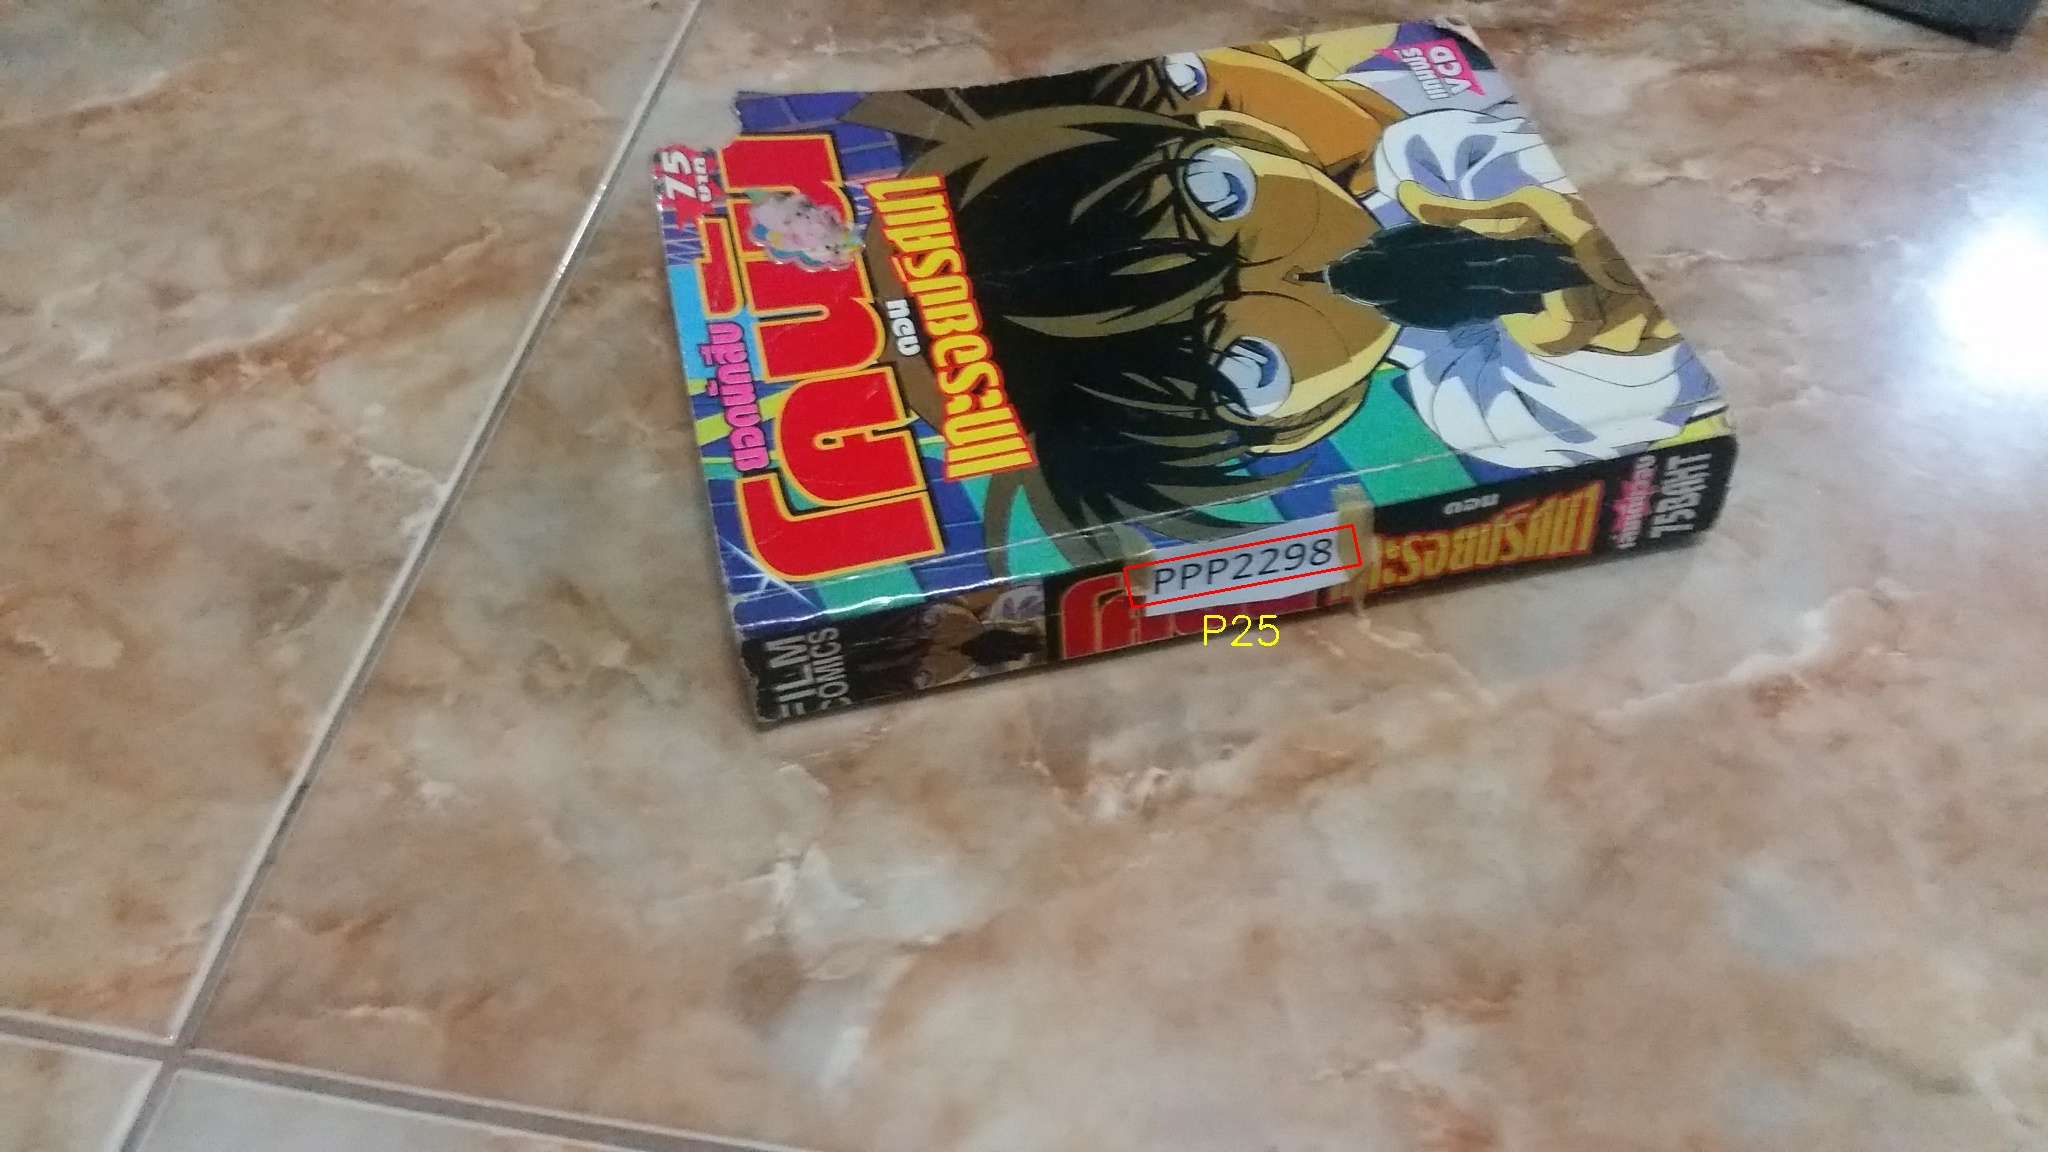
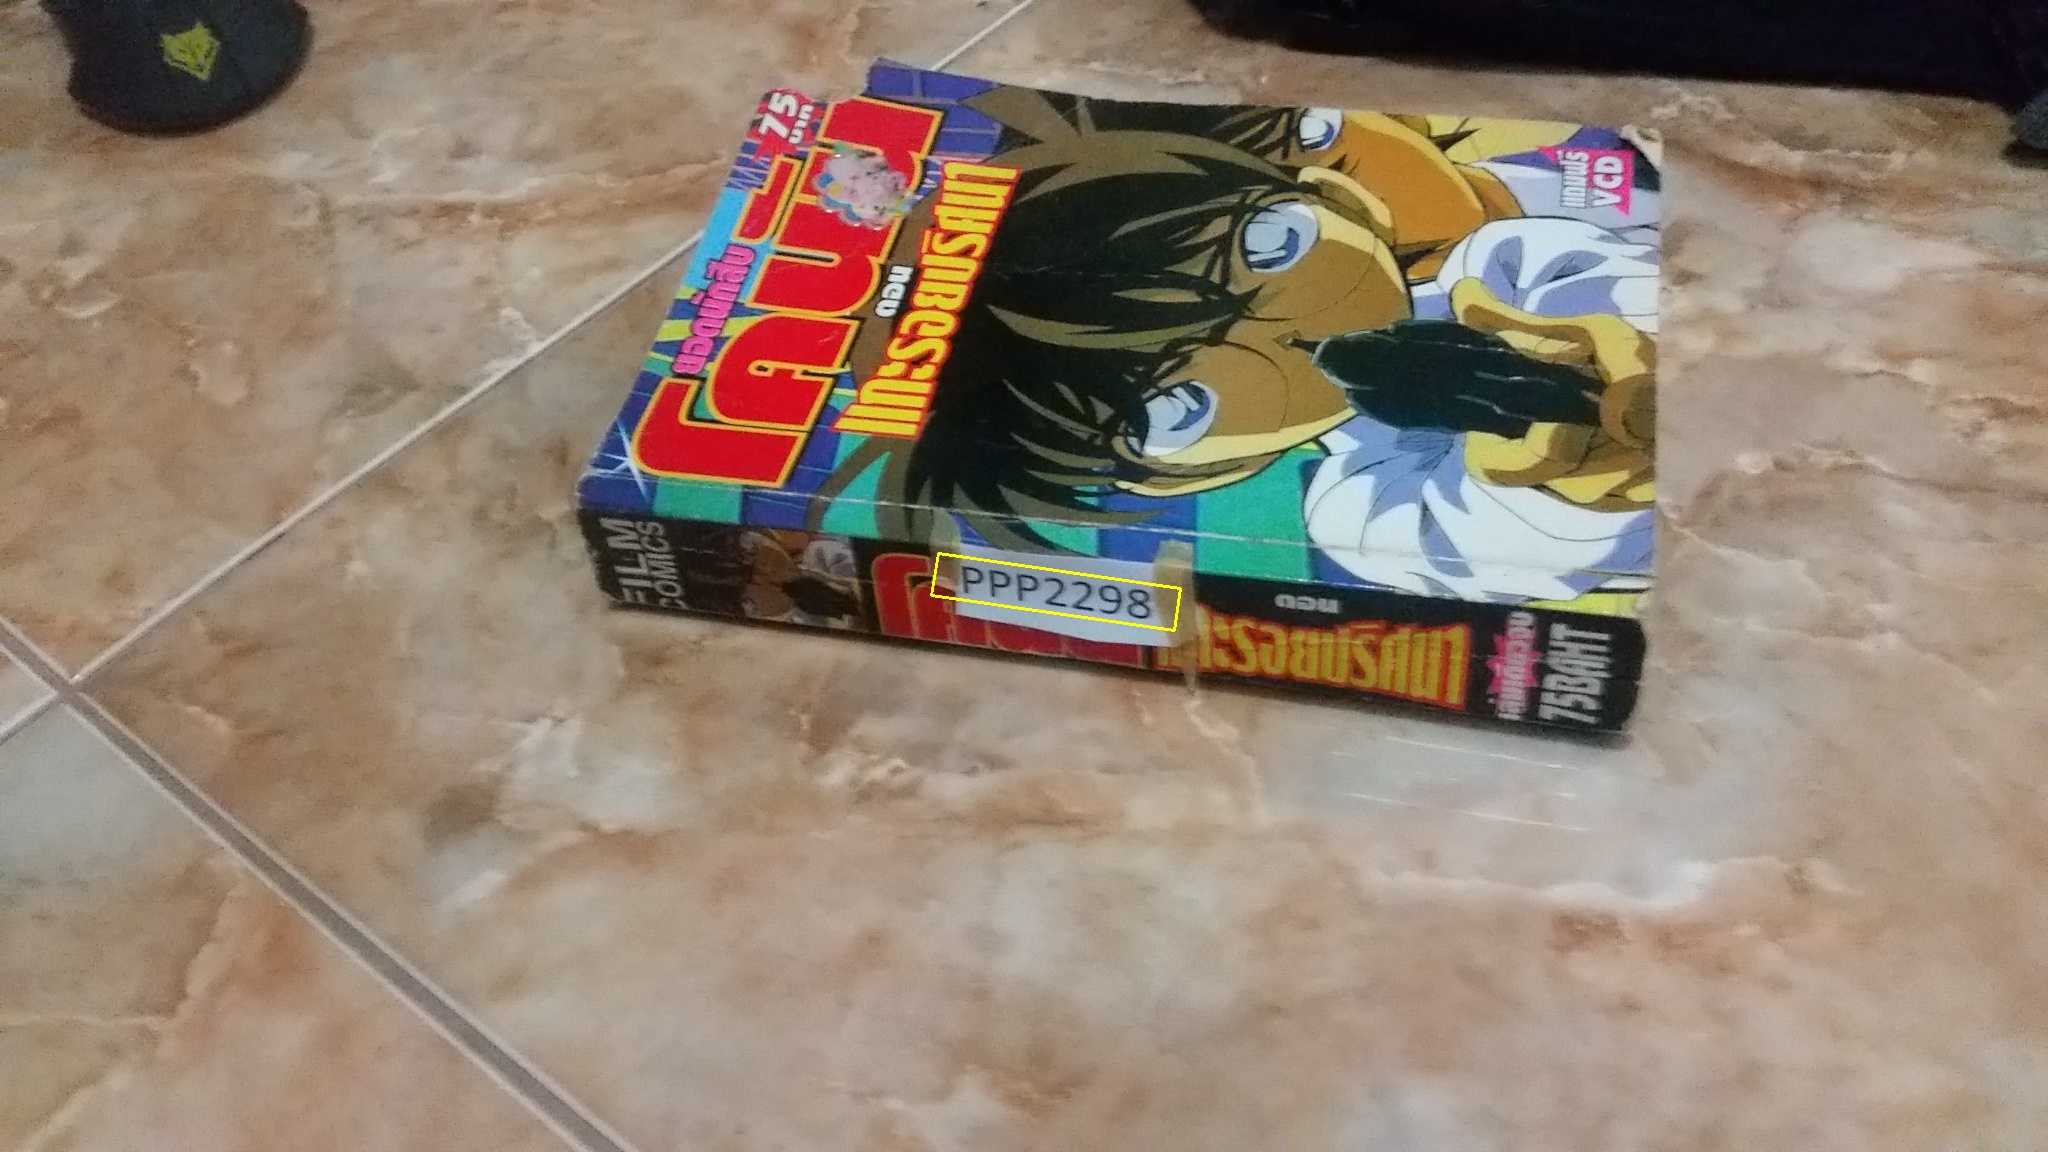
Change code to not show license char

diff --git a/OpenCV/Main(NoArg).py b/OpenCV/Main(NoArg).py
@@ -65,7 +65,7 @@ def main():
         print ("\nlicense plate read from image = " + licPlate.strChars + "\n")       # write license plate text to std out
         print ("----------------------------------------")
 
-        writeLicensePlateCharsOnImage(imgOriginalScene, licPlate)           # write license plate text on the image
+        # writeLicensePlateCharsOnImage(imgOriginalScene, licPlate)           # write license plate text on the image
 
         cv2.imwrite("Output/imgDrawRec.jpg", imgOriginalScene)           # write draw Rectangle image out to file
         cv2.imwrite("Output/imgPlate.jpg", licPlate.imgPlate)           # write license plate image out to file
@@ -82,10 +82,10 @@ def drawRedRectangleAroundPlate(imgOriginalScene, licPlate):
 
     p2fRectPoints = cv2.boxPoints(licPlate.rrLocationOfPlateInScene)            # get 4 vertices of rotated rect
 
-    cv2.line(imgOriginalScene, tuple(p2fRectPoints[0]), tuple(p2fRectPoints[1]), SCALAR_RED, 2)         # draw 4 red lines
-    cv2.line(imgOriginalScene, tuple(p2fRectPoints[1]), tuple(p2fRectPoints[2]), SCALAR_RED, 2)
-    cv2.line(imgOriginalScene, tuple(p2fRectPoints[2]), tuple(p2fRectPoints[3]), SCALAR_RED, 2)
-    cv2.line(imgOriginalScene, tuple(p2fRectPoints[3]), tuple(p2fRectPoints[0]), SCALAR_RED, 2)
+    cv2.line(imgOriginalScene, tuple(p2fRectPoints[0]), tuple(p2fRectPoints[1]), SCALAR_YELLOW, 2)         # draw 4 red lines
+    cv2.line(imgOriginalScene, tuple(p2fRectPoints[1]), tuple(p2fRectPoints[2]), SCALAR_YELLOW, 2)
+    cv2.line(imgOriginalScene, tuple(p2fRectPoints[2]), tuple(p2fRectPoints[3]), SCALAR_YELLOW, 2)
+    cv2.line(imgOriginalScene, tuple(p2fRectPoints[3]), tuple(p2fRectPoints[0]), SCALAR_YELLOW, 2)
 # end function
 
 ###################################################################################################

diff --git a/OpenCV/Main(Arg).py b/OpenCV/Main(Arg).py
@@ -74,7 +74,7 @@ def main():
         print ("\nlicense plate read from image = " + licPlate.strChars + "\n")       # write license plate text to std out
         print ("----------------------------------------")
 
-        writeLicensePlateCharsOnImage(imgOriginalScene, licPlate)           # write license plate text on the image
+        # writeLicensePlateCharsOnImage(imgOriginalScene, licPlate)           # write license plate text on the image
 
         cv2.imwrite(nameOutputRec, imgOriginalScene)           # write draw Rectangle image out to file
         
@@ -93,10 +93,10 @@ def drawRedRectangleAroundPlate(imgOriginalScene, licPlate):
 
     p2fRectPoints = cv2.boxPoints(licPlate.rrLocationOfPlateInScene)            # get 4 vertices of rotated rect
 
-    cv2.line(imgOriginalScene, tuple(p2fRectPoints[0]), tuple(p2fRectPoints[1]), SCALAR_RED, 2)         # draw 4 red lines
-    cv2.line(imgOriginalScene, tuple(p2fRectPoints[1]), tuple(p2fRectPoints[2]), SCALAR_RED, 2)
-    cv2.line(imgOriginalScene, tuple(p2fRectPoints[2]), tuple(p2fRectPoints[3]), SCALAR_RED, 2)
-    cv2.line(imgOriginalScene, tuple(p2fRectPoints[3]), tuple(p2fRectPoints[0]), SCALAR_RED, 2)
+    cv2.line(imgOriginalScene, tuple(p2fRectPoints[0]), tuple(p2fRectPoints[1]), SCALAR_YELLOW, 2)         # draw 4 red lines
+    cv2.line(imgOriginalScene, tuple(p2fRectPoints[1]), tuple(p2fRectPoints[2]), SCALAR_YELLOW, 2)
+    cv2.line(imgOriginalScene, tuple(p2fRectPoints[2]), tuple(p2fRectPoints[3]), SCALAR_YELLOW, 2)
+    cv2.line(imgOriginalScene, tuple(p2fRectPoints[3]), tuple(p2fRectPoints[0]), SCALAR_YELLOW, 2)
 # end function
 
 ###################################################################################################
